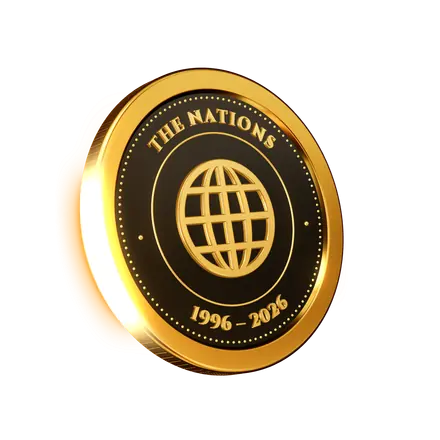
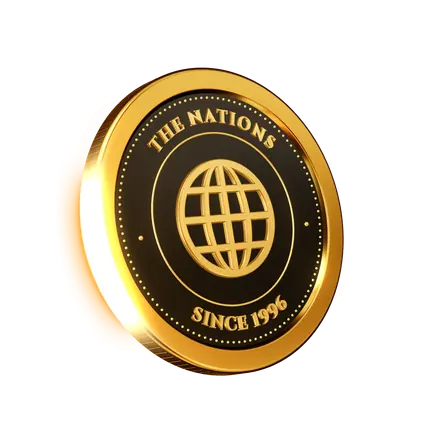
Protect hidden names, update the dates and tidy the loose ends
A name hidden by its owner can no longer be found through the public search
or the API. The convention now starts on the 23rd, and the coins read since
1996, with since 2018 on the Glory Dome coin. The login cookie is https only
and counts only from the site's own addresses. Forms no longer lose a
submission when a phone's clock runs fast. The link preview shows coins in
place of the glass hand, photo backdrops load when chosen and never go
missing from a card, and the page controls show on the phone dashboard.

Changed region(s): [[0.4136, 0.6795, 0.65, 0.7682], [0.2955, 0.5318, 0.325, 0.5614]]

diff --git a/src/app/(frontend)/social-card/CardStudio.tsx b/src/app/(frontend)/social-card/CardStudio.tsx
@@ -72,7 +72,7 @@ const STEPS = ['Photo', 'Details', 'Backdrop'] as const
 const LAST_STEP = STEPS.length - 1
 const isPhone = () => window.matchMedia('(max-width: 1023px)').matches
 
-const SHARE_TEXT = 'I will be attending the Kingdom Power & Glory World Conference, 24 to 29 November! #DunamisAt30'
+const SHARE_TEXT = 'I will be attending the Kingdom Power & Glory World Conference, 23 to 29 November! #DunamisAt30'
 const CARD_PAGE = '/social-card'
 
 /** Counting cards is nice to have. If it fails, with no signal for example, the visitor never needs to know. */
@@ -357,11 +357,11 @@ export function CardStudio() {
     let alive = true
     ;(async () => {
       try {
-        const [crest, emblem, crowd, dome] = await Promise.all([loadArtwork(crestImg.src), loadArtwork(emblemImg.src), loadArtwork(crowdImg.src), loadArtwork(domeBackdrop)])
+        const [crest, emblem, crowd] = await Promise.all([loadArtwork(crestImg.src), loadArtwork(emblemImg.src), loadArtwork(crowdImg.src)])
         font.current = getComputedStyle(document.body).fontFamily
         await Promise.all([700, 600, 500].map((w) => document.fonts.load(`${w} 40px ${font.current}`).catch(() => undefined)))
         if (!alive) return
-        assets.current = { crest, emblem, crowd, dome, nations: null }
+        assets.current = { crest, emblem, crowd, dome: null, nations: null }
         setReady(true)
       } catch {
         if (alive) setFailed(true)
@@ -372,10 +372,12 @@ export function CardStudio() {
     }
   }, [])
 
-  // The Nations backdrop is only fetched if someone chooses it.
+  // The photo backdrops are only fetched if someone chooses one.
   const ensureBackdrop = useCallback(async () => {
-    if (template !== 'nations' || !assets.current || assets.current.nations) return
-    assets.current.nations = await loadImage(nationsBackdrop)
+    const art = assets.current
+    if (!art) return
+    if (template === 'glory' && !art.dome) art.dome = await loadArtwork(domeBackdrop)
+    if (template === 'nations' && !art.nations) art.nations = await loadArtwork(nationsBackdrop)
   }, [template])
 
   // Live preview.
@@ -384,7 +386,7 @@ export function CardStudio() {
     if (!ready || !ctx || !assets.current) return
     let alive = true
     drawCard(ctx, cardInput(), assets.current, 1)
-    if (template === 'nations' && !assets.current.nations) {
+    if ((template === 'glory' && !assets.current.dome) || (template === 'nations' && !assets.current.nations)) {
       ensureBackdrop()
         .then(() => {
           if (alive && assets.current) drawCard(ctx, cardInput(), assets.current, 1)
@@ -463,6 +465,12 @@ export function CardStudio() {
     if (!name.trim()) {
       goTo(1)
       needsName()
+      return
+    }
+    try {
+      await ensureBackdrop()
+    } catch {
+      setNote('That backdrop didn’t load. Please check your connection and try again, or choose another one.')
       return
     }
     const blob = await renderImage()

diff --git a/src/lib/content.ts b/src/lib/content.ts
@@ -1,6 +1,6 @@
 import config from '@payload-config'
 import { unstable_cache } from 'next/cache'
-import { getPayload, type Where } from 'payload'
+import { getPayload, type Payload, type Where } from 'payload'
 import { cache } from 'react'
 
 import type { Event, Gallery, Homepage, ImpactPage, Media, Milestone, PastorPage, Site, SonsStory, StoryPage, Testimony } from '@/payload-types'
@@ -148,6 +148,27 @@ export type TestimonyQuery = {
 const PAGE_SIZE = 12
 
 /**
+ * What a public search matches. This step needs to look at names, which visitors can't filter on, so it
+ * runs with full access and only returns ids. It only looks at the names of people who chose to show them.
+ */
+async function searchTestimonies(payload: Payload, q: string) {
+  const { docs } = await payload.find({
+    collection: 'testimonies',
+    where: {
+      and: [
+        { status: { equals: 'approved' } },
+        { or: [{ title: { like: q } }, { summary: { like: q } }, { body: { like: q } }, { and: [{ name: { like: q } }, { showName: { equals: true } }] }] },
+      ],
+    },
+    pagination: false,
+    depth: 0,
+    select: { status: true },
+    overrideAccess: true,
+  })
+  return docs.map((t) => t.id)
+}
+
+/**
  * Public testimony library. overrideAccess: false makes Payload apply the collection's access
  * rules as an anonymous visitor: only approved testimonies, and never the submitter's contacts.
  */
@@ -157,7 +178,11 @@ async function findTestimonies({ q, category, year, videos, sort = 'mix', seed =
   if (category) and.push({ category: { equals: category } })
   if (videos) and.push({ hasVideo: { equals: true } })
   if (year) and.push({ publishedAt: { greater_than_equal: `${year}-01-01T00:00:00.000Z`, less_than: `${year + 1}-01-01T00:00:00.000Z` } })
-  if (q) and.push({ or: [{ title: { like: q } }, { summary: { like: q } }, { name: { like: q } }, { body: { like: q } }] })
+  if (q) {
+    const matches = await searchTestimonies(payload, q)
+    if (!matches.length) return { docs: [], page: 1, totalPages: 0, total: 0 }
+    and.push({ id: { in: matches } })
+  }
 
   if (sort !== 'mix') {
     const res = await payload.find({

diff --git a/scripts/coins/scene.js b/scripts/coins/scene.js
@@ -441,7 +441,7 @@ function arcText(group, text, { radius, centre, top, size, material, z, tracking
 
 /* ─── The coin ─── */
 
-function buildCoin({ emblem, word, finish, towardCentre }) {
+function buildCoin({ emblem, word, since, finish, towardCentre }) {
   const coin = new THREE.Group()
   const look = finishes[finish]()
   const half = 0.095 // half the coin's thickness
@@ -497,12 +497,12 @@ function buildCoin({ emblem, word, finish, towardCentre }) {
   relief.position.z = fieldZ + 0.002
   coin.add(relief)
 
-  // The inscription: what the coin stands for across the top, the years across the bottom.
+  // The inscription: what the coin stands for across the top, and since when across the bottom.
   const size = 0.122
   const capHeight = size * CAP
   const baseline = 0.635
   const spanTop = arcText(coin, word, { radius: baseline, centre: Math.PI / 2, top: true, size, material: look.relief, z: fieldZ + 0.001 })
-  const spanBottom = arcText(coin, '1996 – 2026', { radius: baseline + capHeight, centre: -Math.PI / 2, top: false, size, material: look.relief, z: fieldZ + 0.001 })
+  const spanBottom = arcText(coin, `SINCE ${since}`, { radius: baseline + capHeight, centre: -Math.PI / 2, top: false, size, material: look.relief, z: fieldZ + 0.001 })
   const dotAngle = Math.PI / 2 + spanTop / 2 + (Math.PI * 2 - spanTop - spanBottom) / 4
   ;[dotAngle, Math.PI - dotAngle].forEach((a) => {
     const dot = new THREE.Mesh(new THREE.SphereGeometry(0.015, 16, 16), look.relief)
@@ -528,7 +528,7 @@ window.renderCoin = (spec) => {
   const spin = new THREE.Quaternion().setFromAxisAngle(new THREE.Vector3(0, 0, 1), roll)
 
   const local = outward.clone().multiplyScalar(-1).rotateAround(new THREE.Vector2(0, 0), -roll)
-  const coin = buildCoin({ emblem: spec.emblem, word: spec.word, finish: spec.finish, towardCentre: local })
+  const coin = buildCoin({ emblem: spec.emblem, word: spec.word, since: spec.since ?? 1996, finish: spec.finish, towardCentre: local })
   coin.quaternion.copy(turn).multiply(spin)
   scene.add(coin)
 

diff --git a/src/components/forms/useSubmission.ts b/src/components/forms/useSubmission.ts
@@ -13,7 +13,7 @@ export type SubmissionState = {
 const OFFLINE = 'We couldn’t reach the website. Please check your connection and try again. Everything you typed is still here.'
 
 /** Choices that are never restored: consent must be given fresh, and these fields aren't typed. */
-const NOT_SAVED = new Set(['consent', 'company', 'startedAt', 'cf-turnstile-response'])
+const NOT_SAVED = new Set(['consent', 'leave_empty', 'cf-turnstile-response'])
 
 /**
  * Shared behaviour for the public forms: the submitting state, a clear error when the connection
@@ -24,14 +24,11 @@ export function useSubmission(draftKey: string, onRestore?: (values: Record<stri
   const formRef = useRef<HTMLFormElement>(null)
   const [state, setState] = useState<SubmissionState>({})
   const [busy, setBusy] = useState(false)
-  const [startedAt, setStartedAt] = useState(0)
   const saveTimer = useRef(0)
   const storageKey = `dunamis-draft-${draftKey}`
 
   // Restore a draft once, after the page has loaded.
   useEffect(() => {
-    // eslint-disable-next-line react-hooks/set-state-in-effect -- the time must be read in the browser, or it wouldn't match the server's markup.
-    setStartedAt(Date.now())
     const form = formRef.current
     if (!form) return
     let saved: Record<string, string> = {}
@@ -130,7 +127,7 @@ export function useSubmission(draftKey: string, onRestore?: (values: Record<stri
     [show],
   )
 
-  return { formRef, state, show, busy, setBusy, startedAt, onFormChange, attempt }
+  return { formRef, state, show, busy, setBusy, onFormChange, attempt }
 }
 
 /** The line beside the submit button when something needs fixing. */

diff --git a/src/lib/site.ts b/src/lib/site.ts
@@ -4,14 +4,14 @@ const LIVE_SITE = 'https://www.dunamis30thanniversary.com'
 export const siteUrl = (process.env.NEXT_PUBLIC_SITE_URL || (process.env.VERCEL ? LIVE_SITE : 'http://localhost:3000')).replace(/\/$/, '')
 
 /** The picture shown when a link to the site is shared. Rendered by scripts/render-og.mjs. */
-export const shareImage = { url: '/og-dunamis-30-slip.jpg', width: 1200, height: 630, alt: 'Dunamis at 30. Same Mission. Greater Impact.' }
+export const shareImage = { url: '/og-dunamis-30-coins.jpg', width: 1200, height: 630, alt: 'Dunamis at 30. Same Mission. Greater Impact.' }
 
 export const siteName = 'Dunamis at 30'
 
 export const tagline = 'One ministry. Thirty years. Millions of stories. One continuing legacy.'
 
 export const defaultDescription =
-  'Dunamis International Gospel Centre is 30. Join us at the Glory Dome, Abuja, for Kingdom Power & Glory, 24 to 29 November 2026, read the testimonies, and make your I Am Attending card.'
+  'Dunamis International Gospel Centre is 30. Join us at the Glory Dome, Abuja, for Kingdom Power & Glory, 23 to 29 November 2026, read the testimonies, and make your I Am Attending card.'
 
 export type NavItem = { href: string; label: string }
 
@@ -62,7 +62,7 @@ export const defaults = {
 /** The home page timer counts down to this. dunamisgospel.org/calendar/kingdom-power-and-glory-world-conference-2026 */
 export const kpg = {
   title: 'Kingdom Power & Glory',
-  startsAt: '2026-11-24T09:30:00+01:00',
+  startsAt: '2026-11-23T09:30:00+01:00',
   programmeUrl: 'https://dunamisgospel.org/upcoming-programs/',
 }
 

diff --git a/src/payload.config.ts b/src/payload.config.ts
@@ -21,6 +21,16 @@ const dirname = path.dirname(filename)
 // Supabase Storage speaks S3. Without these env vars, uploads fall back to local disk (dev only).
 const useSupabaseStorage = Boolean(process.env.S3_BUCKET && process.env.S3_ACCESS_KEY_ID)
 
+// A login cookie only counts on requests from these addresses, so another website can't act as a signed-in reviewer.
+// The Vercel addresses are the deployment's own. EXTRA_TRUSTED_ORIGINS is for a test server on another port.
+const trustedOrigins = [
+  'https://www.dunamis30thanniversary.com',
+  'https://dunamis30thanniversary.com',
+  'http://localhost:3000',
+  ...[process.env.VERCEL_URL, process.env.VERCEL_BRANCH_URL, process.env.VERCEL_PROJECT_PRODUCTION_URL].filter(Boolean).map((host) => `https://${host}`),
+  ...(process.env.EXTRA_TRUSTED_ORIGINS?.split(',') ?? []),
+]
+
 const databaseUrl = process.env.DATABASE_URL || ''
 const isLocalDatabase = /@(localhost|127\.0\.0\.1)[:/]/.test(databaseUrl)
 
@@ -98,6 +108,7 @@ export default buildConfig({
   db: database,
   // The site only uses Payload's REST API and Local API, so there's no reason to expose GraphQL.
   graphQL: { disable: true },
+  csrf: trustedOrigins,
   email: process.env.RESEND_API_KEY
     ? resendAdapter({
         apiKey: process.env.RESEND_API_KEY,

diff --git a/src/lib/cardFrames.ts b/src/lib/cardFrames.ts
@@ -10,9 +10,9 @@ export type TemplateId = 'pearl' | 'glory' | 'nations' | 'emerald' | 'royal' | '
 export type PhotoSource = HTMLImageElement | HTMLCanvasElement
 
 export const CARD = { w: 1080, h: 1920 }
-export const EVENT = { title: 'Kingdom Power & Glory World Conference', date: '24 to 29 November 2026', venue: 'The Glory Dome, Abuja' }
+export const EVENT = { title: 'Kingdom Power & Glory World Conference', date: '23 to 29 November 2026', venue: 'The Glory Dome, Abuja' }
 
-export type CardAssets = { crest: HTMLImageElement; emblem: HTMLImageElement; crowd: HTMLImageElement; dome: HTMLImageElement; nations: HTMLImageElement | null }
+export type CardAssets = { crest: HTMLImageElement; emblem: HTMLImageElement; crowd: HTMLImageElement; dome: HTMLImageElement | null; nations: HTMLImageElement | null }
 
 export type CardInput = {
   name: string
@@ -125,7 +125,7 @@ export const TEMPLATES: Record<TemplateId, Theme> = {
   glory: {
     label: 'Glory Dome',
     paint: (ctx, a, w, h) => {
-      cover(ctx, a.dome, 0, 0, w, h)
+      if (a.dome) cover(ctx, a.dome, 0, 0, w, h)
       ctx.fillStyle = 'rgba(8,6,3,0.62)'
       ctx.fillRect(0, 0, w, h)
       ctx.fillStyle = radial(ctx, w / 2, h, h * 0.62, [

diff --git a/src/components/home/HeroRing.tsx b/src/components/home/HeroRing.tsx
@@ -211,7 +211,7 @@ export function HeroRing() {
     <div ref={root} data-rests-together className="hero-ring">
       <div className="hero-origin">
         <div aria-hidden data-ring-light className="pointer-events-none">
-          <GlassImage src={rays} className="hero-rays" />
+          <GlassImage src={rays} soon className="hero-rays" />
           <div className="glow hero-halo [--glow-strength:0.5]" />
         </div>
 
@@ -246,7 +246,7 @@ export function HeroRing() {
               <circle cx="100" cy="100" r="98" fill="none" stroke="rgb(240 169 43 / 0.35)" strokeWidth="0.75" strokeDasharray="1 4" />
               <text fill="#ffd27a" fontSize="10.5" fontWeight="500" letterSpacing="0.6">
                 <textPath href="#hero-seal-line" textLength="548" lengthAdjust="spacing">
-                  THIRTY YEARS OF GOD’S FAITHFULNESS · 1996 – 2026 · SAME MISSION · GREATER IMPACT ·
+                  THIRTY YEARS OF GOD’S FAITHFULNESS · SINCE 1996 · SAME MISSION · GREATER IMPACT ·
                 </textPath>
               </text>
             </svg>

diff --git a/src/app/(frontend)/testimonies/TestimonyForm.tsx b/src/app/(frontend)/testimonies/TestimonyForm.tsx
@@ -10,7 +10,7 @@ import { prepareTestimonyVideo, submitTestimony } from './actions'
 
 export function TestimonyForm() {
   const [summaryLength, setSummaryLength] = useState(0)
-  const { formRef, state, show, busy, setBusy, startedAt, onFormChange, attempt } = useSubmission('testimony', (values) => setSummaryLength(values.summary?.length ?? 0))
+  const { formRef, state, show, busy, setBusy, onFormChange, attempt } = useSubmission('testimony', (values) => setSummaryLength(values.summary?.length ?? 0))
   const video = useVideoAttachment()
   const [photo, setPhoto] = useState<{ blob: Blob; url: string } | null>(null)
   const [photoNote, setPhotoNote] = useState('')
@@ -76,7 +76,7 @@ export function TestimonyForm() {
 
   return (
     <form ref={formRef} onSubmit={onSubmit} onChange={onFormChange} noValidate className="relative rounded-2xl border border-hair bg-[#171717] p-5 sm:p-10">
-      <BotFields startedAt={startedAt} />
+      <BotFields />
 
       <h3 className="h-card">About you</h3>
       <div className="mt-6 grid gap-5 sm:grid-cols-2 sm:gap-[25px]">

diff --git a/src/lib/spam.ts b/src/lib/spam.ts
@@ -2,8 +2,7 @@ import { headers } from 'next/headers'
 
 /*
  * Light, layered protection for the public forms:
- * - a honeypot field real visitors never see ("company"),
- * - a minimum fill time (bots submit instantly),
+ * - a honeypot field real visitors and their browsers' autofill never see,
  * - a per-visitor rate limit (in memory, per server instance),
  * - Cloudflare Turnstile when TURNSTILE_SECRET_KEY is configured.
  */
@@ -21,10 +20,7 @@ export async function clientIp() {
 export type SpamVerdict = { ok: true } | { ok: false; silent: boolean; message?: string }
 
 export async function checkSubmission(formData: FormData, bucket: string): Promise<SpamVerdict> {
-  if (String(formData.get('company') ?? '')) return { ok: false, silent: true }
-
-  const startedAt = Number(formData.get('startedAt') ?? 0)
-  if (!startedAt || Date.now() - startedAt < 2500) return { ok: false, silent: true }
+  if (String(formData.get('leave_empty') ?? '')) return { ok: false, silent: true }
 
   const ip = await clientIp()
   const key = `${bucket}:${ip}`

diff --git a/src/components/GlassImage.tsx b/src/components/GlassImage.tsx
@@ -4,8 +4,8 @@ import Image, { type ImageProps } from 'next/image'
  * The glass objects are small transparent files, already sized for the site. They skip the image
  * optimiser and come straight from the CDN, so they arrive instantly and keep their fine edges. They
  * start loading with the page, behind everything more important, so each is ready before it's
- * scrolled to.
+ * scrolled to. `soon` is for the few that are a big part of the first screen.
  */
-export function GlassImage({ alt = '', ...props }: Omit<ImageProps, 'alt' | 'unoptimized' | 'loading' | 'sizes' | 'fetchPriority'> & { alt?: string }) {
-  return <Image {...props} alt={alt} unoptimized loading="eager" fetchPriority="low" />
+export function GlassImage({ alt = '', soon = false, ...props }: Omit<ImageProps, 'alt' | 'unoptimized' | 'loading' | 'sizes' | 'fetchPriority'> & { alt?: string; soon?: boolean }) {
+  return <Image {...props} alt={alt} unoptimized loading="eager" fetchPriority={soon ? 'high' : 'low'} />
 }

diff --git a/src/components/forms/Field.tsx b/src/components/forms/Field.tsx
@@ -39,15 +39,15 @@ export function Field({
 const turnstileKey = process.env.NEXT_PUBLIC_TURNSTILE_SITE_KEY
 
 /** Hidden anti-bot fields shared by every public form, plus the Turnstile check once it's configured. */
-export function BotFields({ startedAt }: { startedAt: number }) {
+export function BotFields() {
   return (
     <>
-      <div aria-hidden className="absolute -left-[9999px] h-0 overflow-hidden">
+      {/* Truly hidden and neutrally named, so a browser's autofill can't fill it in and lose someone's form. */}
+      <div aria-hidden hidden>
         <label>
-          Company <input name="company" tabIndex={-1} autoComplete="off" />
+          Leave this empty <input name="leave_empty" tabIndex={-1} autoComplete="off" />
         </label>
       </div>
-      <input type="hidden" name="startedAt" value={startedAt} />
       {turnstileKey && (
         <>
           <Script src="https://challenges.cloudflare.com/turnstile/v0/api.js" strategy="lazyOnload" />
